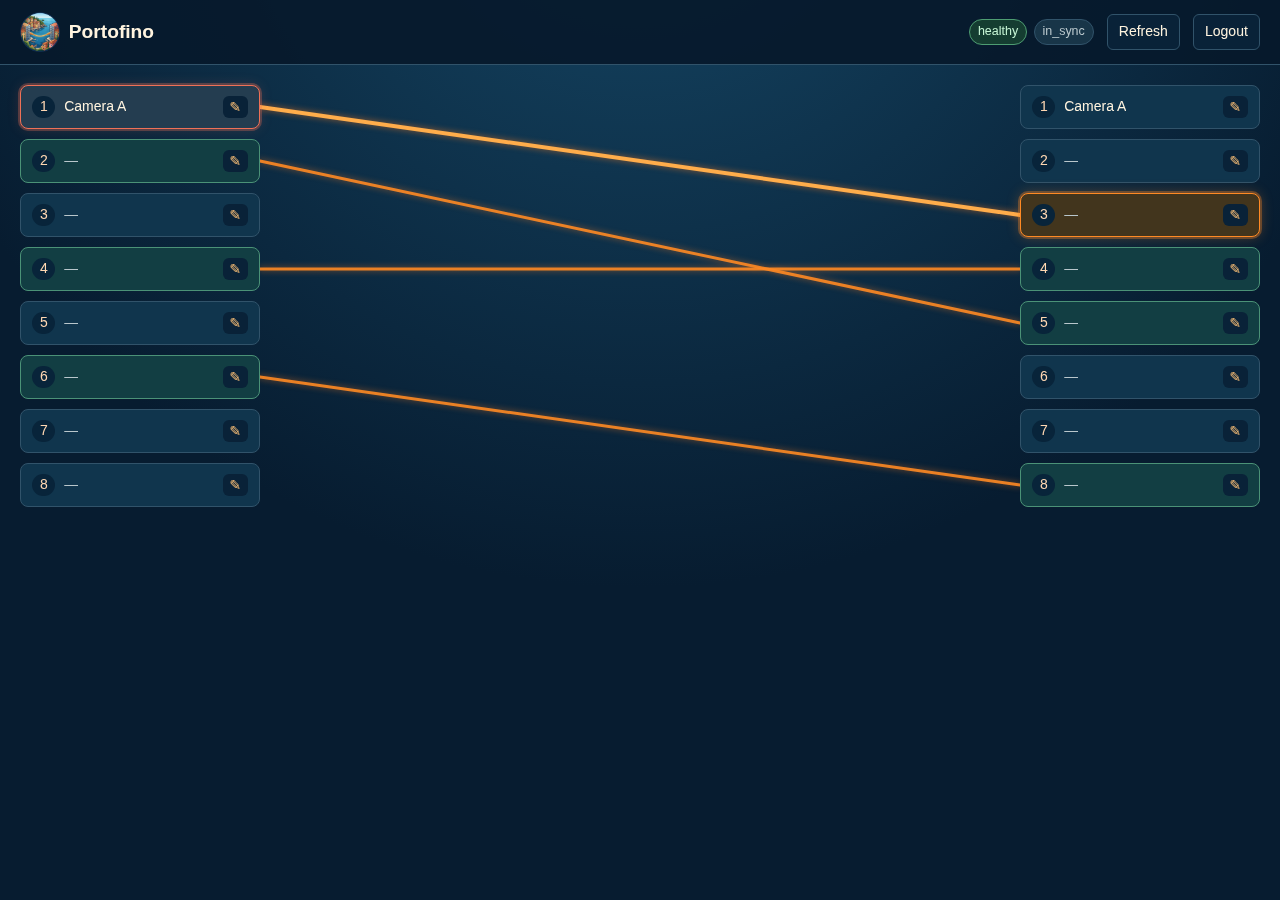
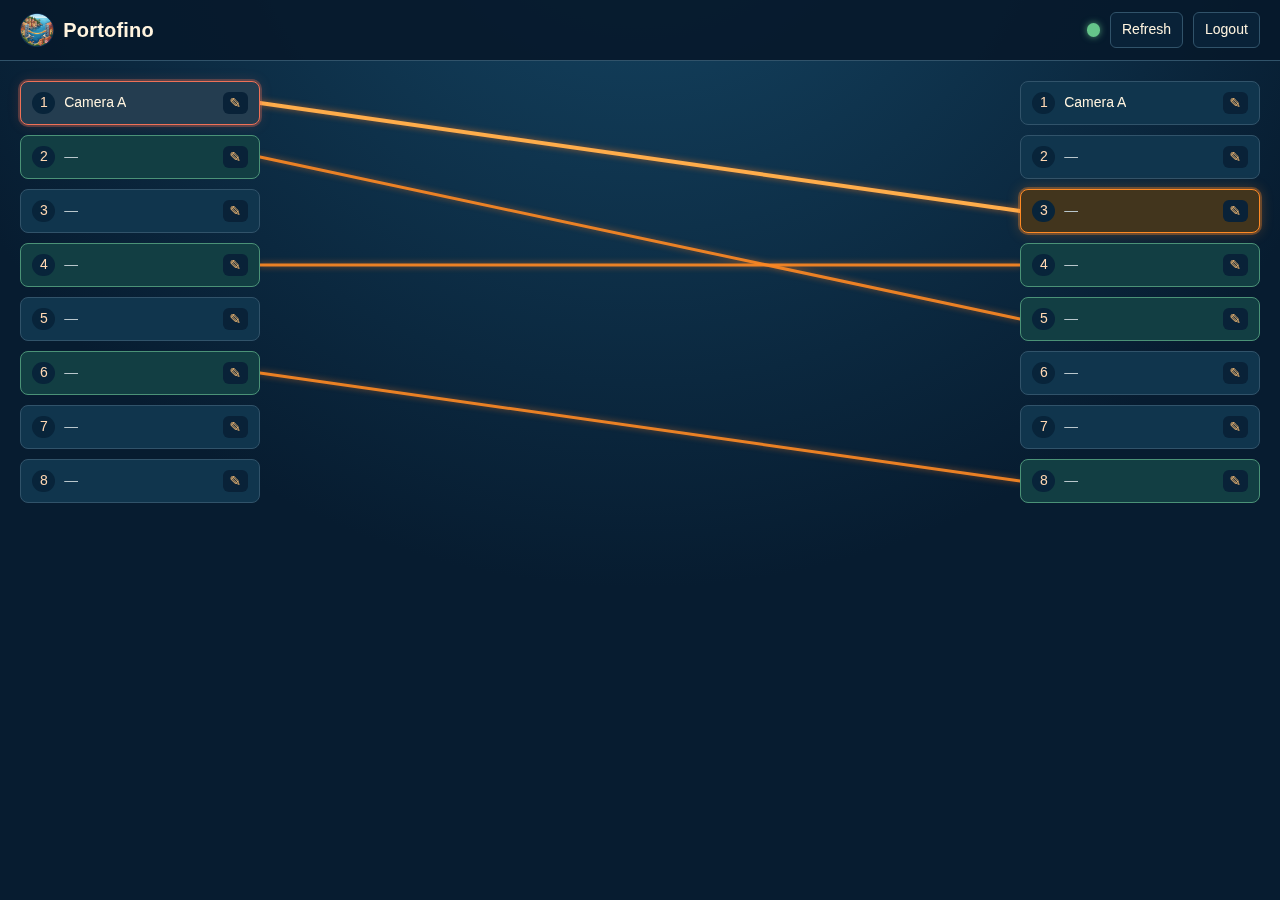
UI: coordinator polish — static cache-busting (?v=mtime), status dot with hover tooltip, aligned brand lockup

diff --git a/app/static/app.css b/app/static/app.css
@@ -32,14 +32,30 @@ header {
   background: rgb(6 25 43 / 92%);
 }
 
-h1 { display: flex; align-items: center; gap: .55rem; margin: 0 auto 0 0; font-size: 1.2rem; }
-.header-logo { width: 2.5rem; height: 2.5rem; }
-.status { display: flex; gap: .4rem; align-items: center; }
-.status-chip { padding: .2rem .5rem; border: 1px solid var(--border); border-radius: 999px; font-size: .78rem; white-space: nowrap; }
-.health-healthy { color: #c5f4d4; border-color: #4e9d72; background: #153d31; }
-.health-unhealthy { color: #ffd4cb; border-color: #ad554d; background: #482427; }
-.sync-in_sync { color: var(--muted); background: #183548; }
-.sync-out_of_sync, .sync-partial_sync { color: #ffe1a4; border-color: #a9792c; background: #4a351b; }
+.brand { display: flex; align-items: center; gap: .6rem; color: var(--text); text-decoration: none; }
+.header-logo { width: 2.1rem; height: 2.1rem; display: block; }
+.brand-name { font-size: 1.25rem; font-weight: 700; letter-spacing: .01em; line-height: 1; }
+.header-actions { display: flex; align-items: center; gap: .6rem; margin-left: auto; }
+.status { display: flex; align-items: center; }
+.status-dot { position: relative; width: .85rem; height: .85rem; border-radius: 50%; cursor: default; }
+.status-ok { background: var(--ok); box-shadow: 0 0 7px rgb(101 197 138 / 75%); }
+.status-degraded { background: var(--warn); box-shadow: 0 0 7px rgb(245 181 72 / 75%); }
+.status-unhealthy { background: var(--danger); box-shadow: 0 0 7px rgb(237 103 90 / 80%); }
+.status-dot:hover::after, .status-dot:focus-visible::after {
+  content: attr(data-tip);
+  position: absolute;
+  top: 1.35rem;
+  right: -.3rem;
+  z-index: 10;
+  padding: .3rem .55rem;
+  border: 1px solid var(--border);
+  border-radius: 6px;
+  background: #092238;
+  color: var(--text);
+  font-size: .78rem;
+  white-space: nowrap;
+  box-shadow: 0 .4rem 1rem rgb(0 0 0 / 35%);
+}
 
 button, input { border: 1px solid var(--border); border-radius: 6px; background: #092238; color: var(--text); font: inherit; }
 button { cursor: pointer; padding: .45rem .7rem; transition: background-color 120ms ease, border-color 120ms ease; }

diff --git a/app/templates/base.html b/app/templates/base.html
@@ -4,19 +4,24 @@
     <meta charset="utf-8">
     <meta name="viewport" content="width=device-width, initial-scale=1">
     <title>Portofino</title>
-    <link rel="icon" type="image/png" href="/static/favicon.png">
-    <link rel="stylesheet" href="/static/app.css">
-    <script src="/static/htmx.min.js"></script>
-    <script src="/static/lines.js"></script>
+    <link rel="icon" type="image/png" href="/static/favicon.png?v={{ static_v }}">
+    <link rel="stylesheet" href="/static/app.css?v={{ static_v }}">
+    <script src="/static/htmx.min.js?v={{ static_v }}"></script>
+    <script src="/static/lines.js?v={{ static_v }}"></script>
   </head>
   <body>
     <header>
-      <h1><img class="header-logo" src="/static/logo.png" alt="">Portofino</h1>
-      <div id="status" class="status" aria-live="polite">{% include "_status.html" %}</div>
-      <button type="button" hx-post="/ui/refresh" hx-target="#panel" hx-swap="outerHTML">Refresh</button>
-      <form method="post" action="/ui/logout">
-        <button type="submit">Logout</button>
-      </form>
+      <a class="brand" href="/ui">
+        <img class="header-logo" src="/static/logo.png?v={{ static_v }}" alt="">
+        <span class="brand-name">Portofino</span>
+      </a>
+      <div class="header-actions">
+        <div id="status" class="status" aria-live="polite">{% include "_status.html" %}</div>
+        <button type="button" hx-post="/ui/refresh" hx-target="#panel" hx-swap="outerHTML">Refresh</button>
+        <form method="post" action="/ui/logout">
+          <button type="submit">Logout</button>
+        </form>
+      </div>
     </header>
     <main>
       {% include "panel.html" %}

diff --git a/app/templates/login.html b/app/templates/login.html
@@ -4,13 +4,13 @@
     <meta charset="utf-8">
     <meta name="viewport" content="width=device-width, initial-scale=1">
     <title>Portofino Login</title>
-    <link rel="icon" type="image/png" href="/static/favicon.png">
-    <link rel="stylesheet" href="/static/app.css">
+    <link rel="icon" type="image/png" href="/static/favicon.png?v={{ static_v }}">
+    <link rel="stylesheet" href="/static/app.css?v={{ static_v }}">
   </head>
   <body>
     <main>
       <form class="login" method="post" action="/ui/login">
-        <img class="login-logo" src="/static/logo.png" alt="Portofino">
+        <img class="login-logo" src="/static/logo.png?v={{ static_v }}" alt="Portofino">
         {% if error %}
           <p class="error">{{ error }}</p>
         {% endif %}

diff --git a/app/templates/_status.html b/app/templates/_status.html
@@ -1,2 +1,3 @@
-<span class="status-chip health-chip health-{{ health }}">{{ health }}</span>
-<span class="status-chip sync-chip sync-{{ sync }}">{{ sync }}</span>
+{% set overall = "unhealthy" if health == "unhealthy" else ("degraded" if sync != "in_sync" else "ok") %}
+<span class="status-dot status-{{ overall }}" role="status" tabindex="0"
+      data-tip="{{ health }} · {{ sync }}" aria-label="{{ health }} · {{ sync }}"></span>

diff --git a/app/routes/ui.py b/app/routes/ui.py
@@ -14,6 +14,15 @@ router = APIRouter()
 templates = Jinja2Templates(directory=Path(__file__).parent.parent / "templates")
 
 
+def _static_version() -> str:
+    static_dir = Path(__file__).parent.parent / "static"
+    return str(int(max(f.stat().st_mtime for f in static_dir.iterdir() if f.is_file())))
+
+
+STATIC_V = _static_version()
+templates.env.globals["static_v"] = STATIC_V
+
+
 def _controller(request: Request):
     return request.app.state.controller
 